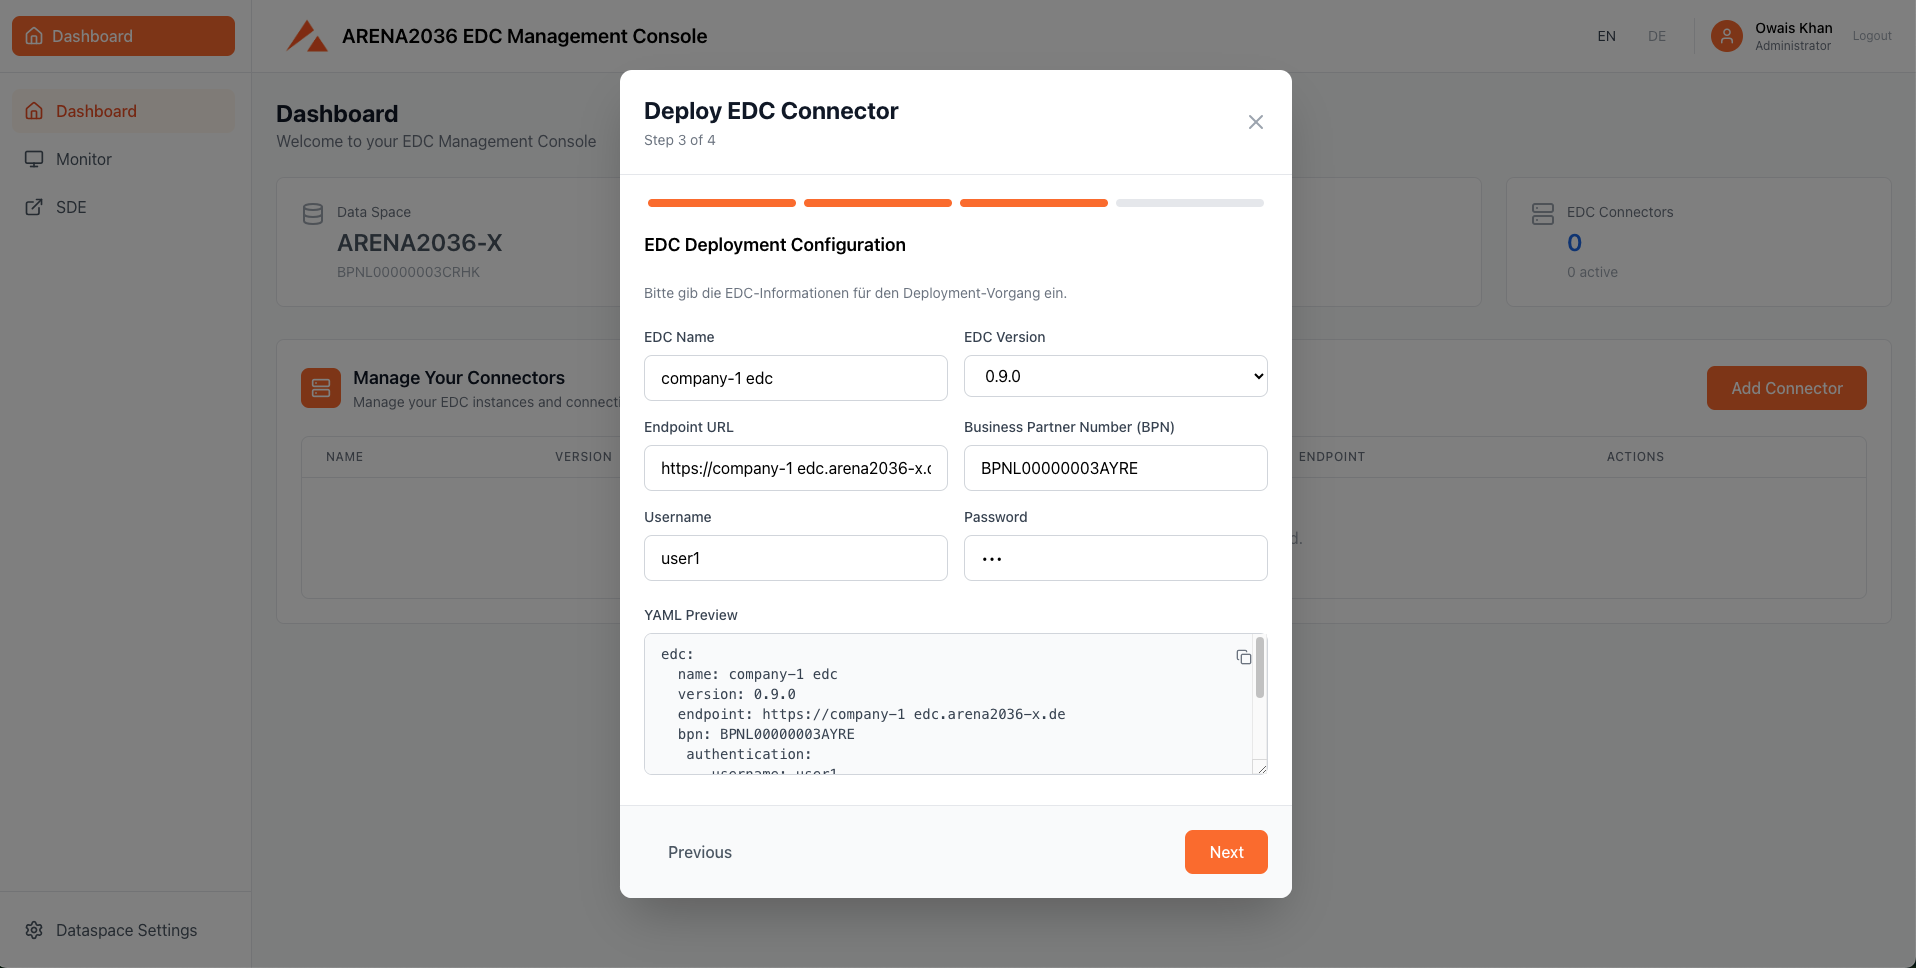
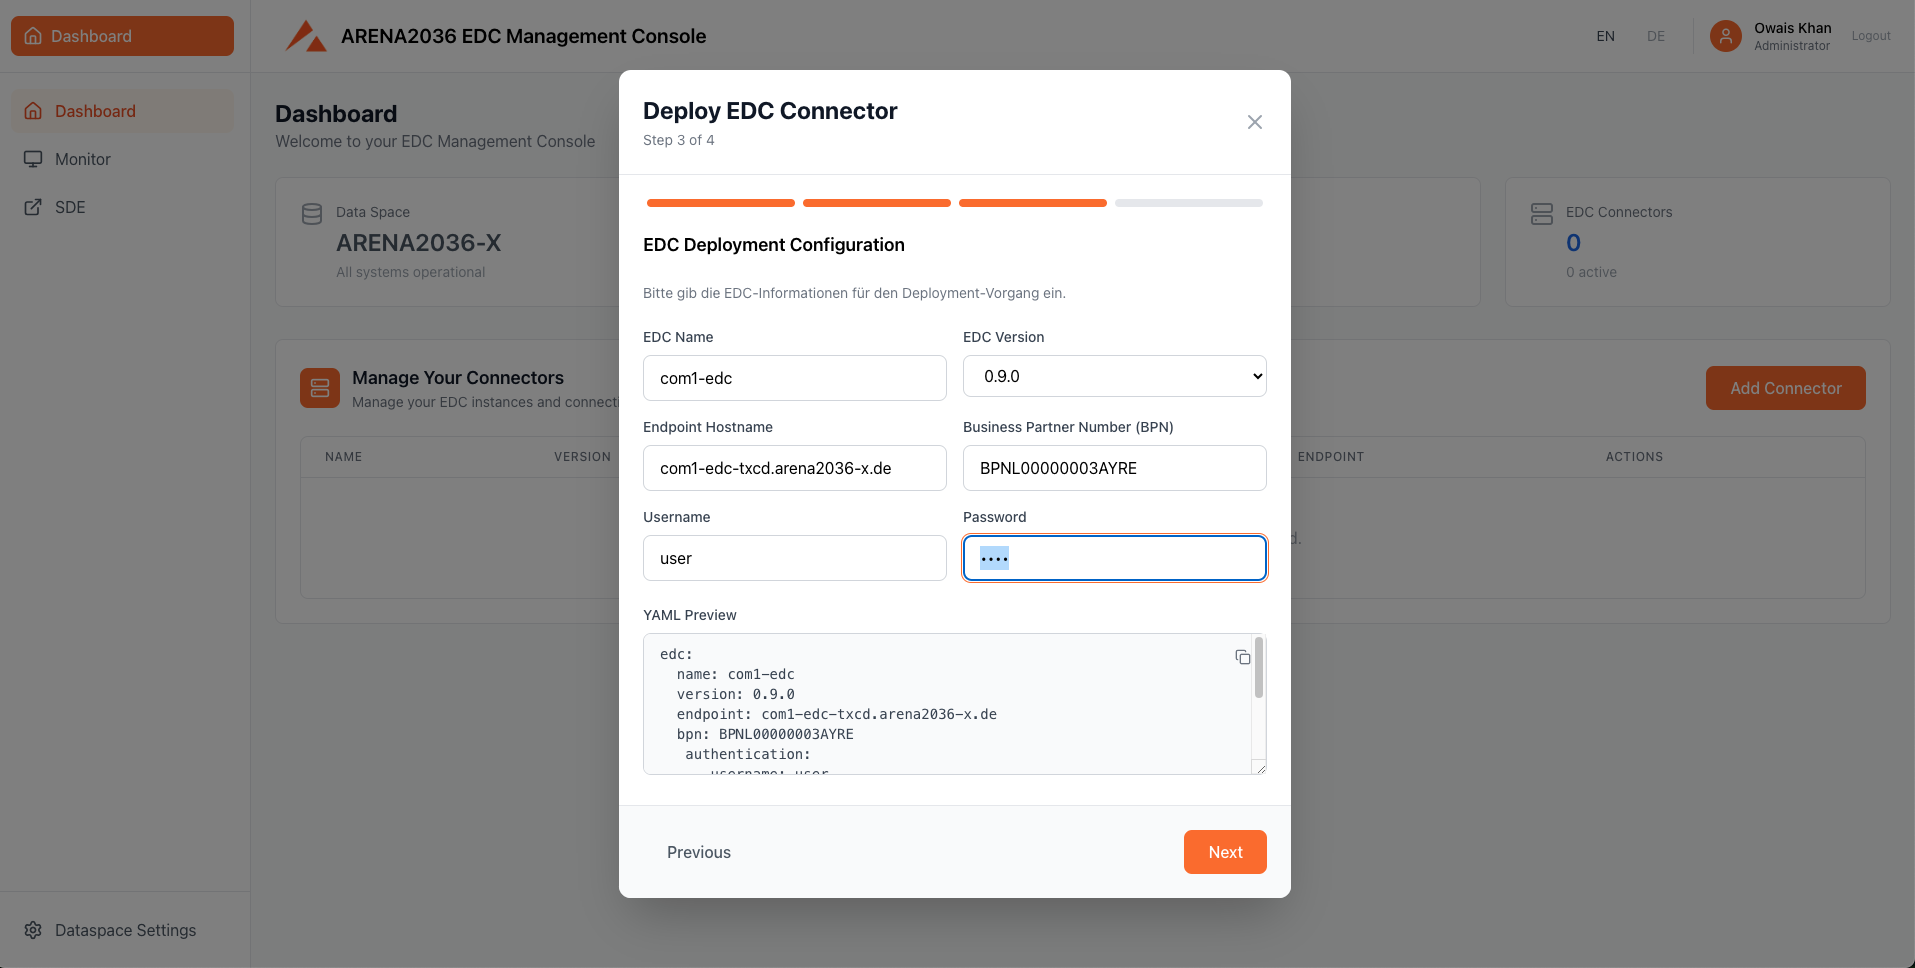
docs: updated technical-document and user-guide

diff --git a/docs/user-guide/README.md b/docs/user-guide/README.md
@@ -21,28 +21,28 @@ EMC can be accessed via a web browser.
 
 ![alt text](images/emc-application.png)
 
-2. Select your company from the list or search by typing its name.
+2. Select your company from the list or search by typing its name
 
 ![alt text](images/select-company.png)
 
-3. You will be redirected to your company's Keycloak login page.
+3. You will be redirected to your company's Keycloak login page
 
 ![alt text](images/company-Keycloak-login.png)
 
-4. Enter your credentials (username/email and password).
+4. Enter your credentials (username/email and password)
 -   Click Sign In
 
 ![alt text](images/enter-username-password.png)
 
-5. You will be redirected EMC dashboard.
+5. You will be redirected EMC dashboard
 
 ![alt text](images/dashboard.png)
 
 ## Logout
 
-1. In the header, click on the user icon at the top-right corner.
-2. Click Logout.
-3. You will be redirected back to the login page.
+1. In the header, click on the user icon at the top-right corner
+2. Click Logout
+3. You will be redirected back to the login page
 
 ![alt text](images/logout.png)
 
@@ -56,16 +56,16 @@ You can manage and deploy EDC connectors through a guided 4‑step process.
 ![alt text](images/add-connector.png)
 
 2. Step 1 - Deploy EDC Connector
-- Enter the Service URL.
-- Example format: https://new-submodel-service.arena2036-x.de
-- Click Next.
+- Enter the Submodel Service
+- Submodel Hostname automatically populated after entering the Submodel Service
+- Click Next
 
 ![alt text](images/step1.png)
 
 3. Step 2 - Digital Twin Registry
-- Enter the Registry URL.
-- Example format: registry.arena2036-x.de
-- Click Next.
+- Enter the Registry Name
+- Registry Hostname automatically populated after entering the Registry Name
+- Click Next
 
 ![alt text](images/step2.png)
 
@@ -73,21 +73,30 @@ You can manage and deploy EDC connectors through a guided 4‑step process.
 Fill in the fields shown in the screenshot:
 - EDC Name
 - EDC Version (Options: 0.9.0 or 0.10.2 — select one)
-- Endpoint URL (automatically populated after entering the EDC Name)
+- Endpoint Hostname (automatically populated after entering the EDC Name)
 - Business Partner Number (BPN)
 - Username
 - password
-You can also preview and copy the auto‑generated YAML using the Copy YAML option.
-Click Next.
+You can also preview and copy the auto‑generated YAML using the Copy YAML option
+- Click Next
 
 ![alt text](images/step3.png)
 
 5. Step 4 - Deploy EDC Connector
 - If you want to review your inputs, click Previous.
 - After verifying the details, click Deploy EDC.
-- Once deployed, the connector will appear under Manage Your Connectors
+- Once deployed, the connector will appear under Manage Your Connectors.
 
 ![alt text](images/step4.png)
+
+6. Manage Your Connectors
+-   When a connector is added, the initial status may appear as Disconnected. This happens because the backend performs a series to check API calls to verify the connector’s availability. The system checks the liveness and readiness endpoints of the EDC.
+-   If all required EDC services are up and running, the status automatically updates to Connected, as shown in the screenshot below.
+
+![alt text](images/manage-your-connectors-disconnected.png)
+
+EDC services are up and running and the status is Connected
+![alt text](images/manage-your-connectors-connected.png)
 
 ## Skip Deploy EDC Connector steps
 - On the Deploy EDC Connector screen, you can click Skip to skip a step and move to the next one.
@@ -141,6 +150,20 @@ Information about the identity provider configured for your organization.
     - Endpoint for discovering connectors based on BPN.
     - Example: /bpndiscovery/api/v1.0/administration/connectors/bpnDiscovery/search
 
+## SDE Configuration
+
+- SDE URL
+    - The base URL for accessing the Simple Data Exchanger (SDE) application.
+    - Example: https://sde-1-txcd.arena2036-x.de
+
+- SDE Client ID
+    - The client identifier used by the SDE to authenticate with the identity provider.
+    - Example: SDE-1
+
+- Provider EDC
+    - The default EDC (Eclipse Dataspace Connector) endpoint used by the SDE for data exchange operations.
+    - Example: https://emc-edc-1-controlplane-txcd.arena2036-x.de
+
 ## EDC Configuration
 
 - Default EDC URL
@@ -159,3 +182,8 @@ When you click on the SDE option it will redirect to the Simple Data Exchanger a
 - [Simple Data Exchanger User Guide](https://github.com/ARENA2036/managed-simple-data-exchanger-frontend/blob/main/docs/user-guide/README.md)
 
 ![alt text](images/SDE.png)
+
+# Known Issues
+
+- In the application, there are some known issues that may affect certain functionalities. These issues have already been identified and will be resolved in future updates.
+- These issues do not affect the core functionality and are being actively monitored and improved in upcoming releases.

diff --git a/docs/technical-document/README.md b/docs/technical-document/README.md
@@ -102,7 +102,7 @@ Below are the basic steps to deploy the EDC Management Console using Helm.
 
 3. Remove the Deployment
 
--  helm uninstall <release-name> -n <namespace>   
+-  helm uninstall your-release-name -n your-namespace   
 
 4. Verify Deployment 
 
